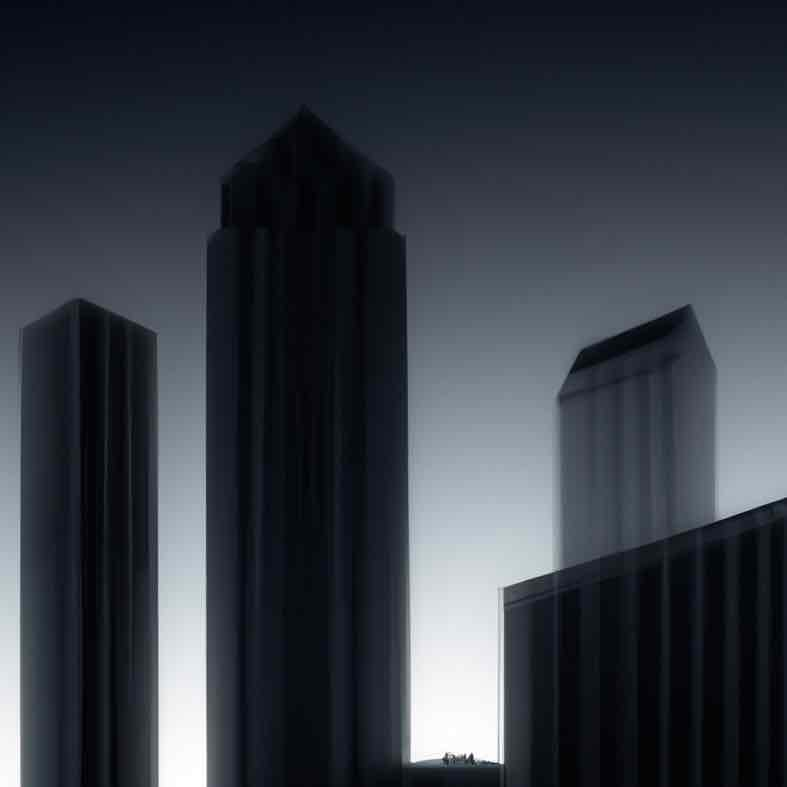
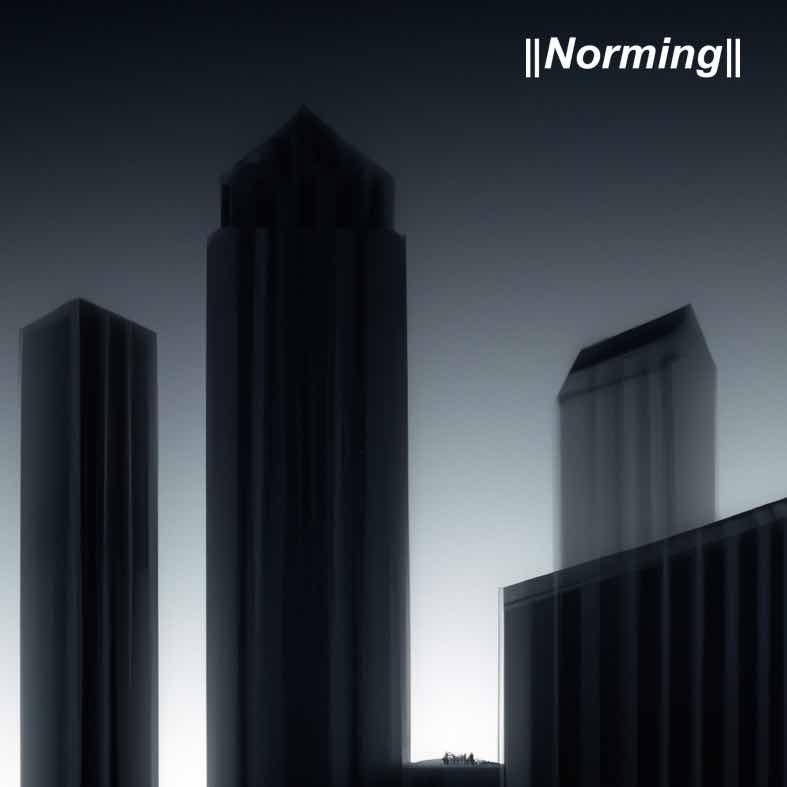
Update cover art for daylight saving

Changed region(s): [[0.6709, 0.0305, 0.9454, 0.122]]

diff --git a/episodes/daylight-saving.md b/episodes/daylight-saving.md
@@ -1,7 +1,7 @@
 ---
 title: "Daylight Saving Time"
 date: 2023-12-02
-audio_file: https://ia801209.us.archive.org/20/items/norming_012/norming_012.mp3
+audio_file: https://ia601202.us.archive.org/2/items/norming_012_202312/norming_012.mp3
 duration: 00:10:00
 spotify: https://open.spotify.com/embed/episode/14vyBmAkHZvNIQE2rRY938?utm_source=generator&theme=0
 cover_art: https://normi.ng/img/daylight-saving-time/coverart.jpg
